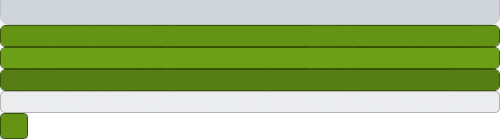
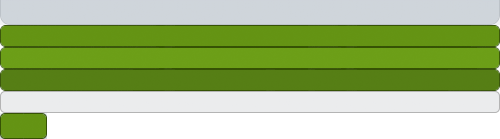
Changes searches so there is no label, changed buttons to say 'search' instead of 'go'   (LP #616868)

Changed region(s): [[0.03, 0.8058, 0.12, 1.0]]

diff --git a/karl/views/static/themedstyles.css b/karl/views/static/themedstyles.css
@@ -658,7 +658,7 @@ ul#header-menu li a {
   margin: 10px 20px 0 0;
   padding: 0 !important;
   text-align: right;
-  width: 486px;
+  width: 505px;
 }
 #searchbox form {
   margin: 0;
@@ -679,10 +679,9 @@ input#livesearch-input {
 }
 #livesearch-button {
   float: right;
-  width: 26px;
+  width: 47px;
   height: 24px;
   line-height: 24px;
-  text-transform: uppercase;
   padding: 0;
   margin: 0;
 }

diff --git a/karl/views/static/karl_ie.css b/karl/views/static/karl_ie.css
@@ -328,7 +328,7 @@ ul.menubar .menubar-lastitem a:active {
 /* search button */
 #livesearch-button.primary_button {
     background: transparent url(images/corners.png) no-repeat left -113px;
-    width: 28px;
+    width: 47px;
     height: 24px;
     line-height: 26px;
 }
